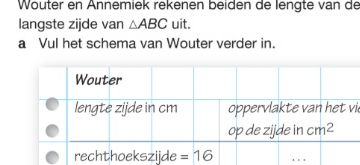
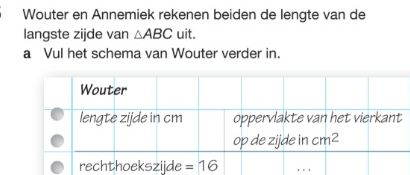
Fix: Q15a Wouter schema - complete crop
Expanded crop area to include full schema box:
- Top: 565 (was 575) - more space above
- Width: 410 (was 360) - more space on right
- Height: 175 (was 165) - more space below

Schema now shows completely without cutoff.

Changed region(s): [[0.1222, 0.3939, 1.0, 1.0], [0.0306, 0.0, 1.0, 0.3333]]

diff --git a/crop-q15-wouter.js b/crop-q15-wouter.js
@@ -1,0 +1,25 @@
+import sharp from 'sharp';
+import path from 'path';
+import { fileURLToPath } from 'url';
+
+const __filename = fileURLToPath(import.meta.url);
+const __dirname = path.dirname(__filename);
+
+const basePath = path.join(__dirname, 'boekafbeeldingen');
+const outputDir = path.join(basePath, 'cropped');
+
+(async () => {
+  try {
+    const inputPath = path.join(basePath, '7.3.1.jpg');
+    const outputPath = path.join(outputDir, 'q15_wouter_schema.jpg');
+
+    // Better crop - includes full schema box
+    await sharp(inputPath)
+      .extract({ left: 65, top: 565, width: 410, height: 175 })
+      .toFile(outputPath);
+
+    console.log('✓ q15_wouter_schema.jpg re-cropped (complete)');
+  } catch (error) {
+    console.error('✗ Error:', error.message);
+  }
+})();
